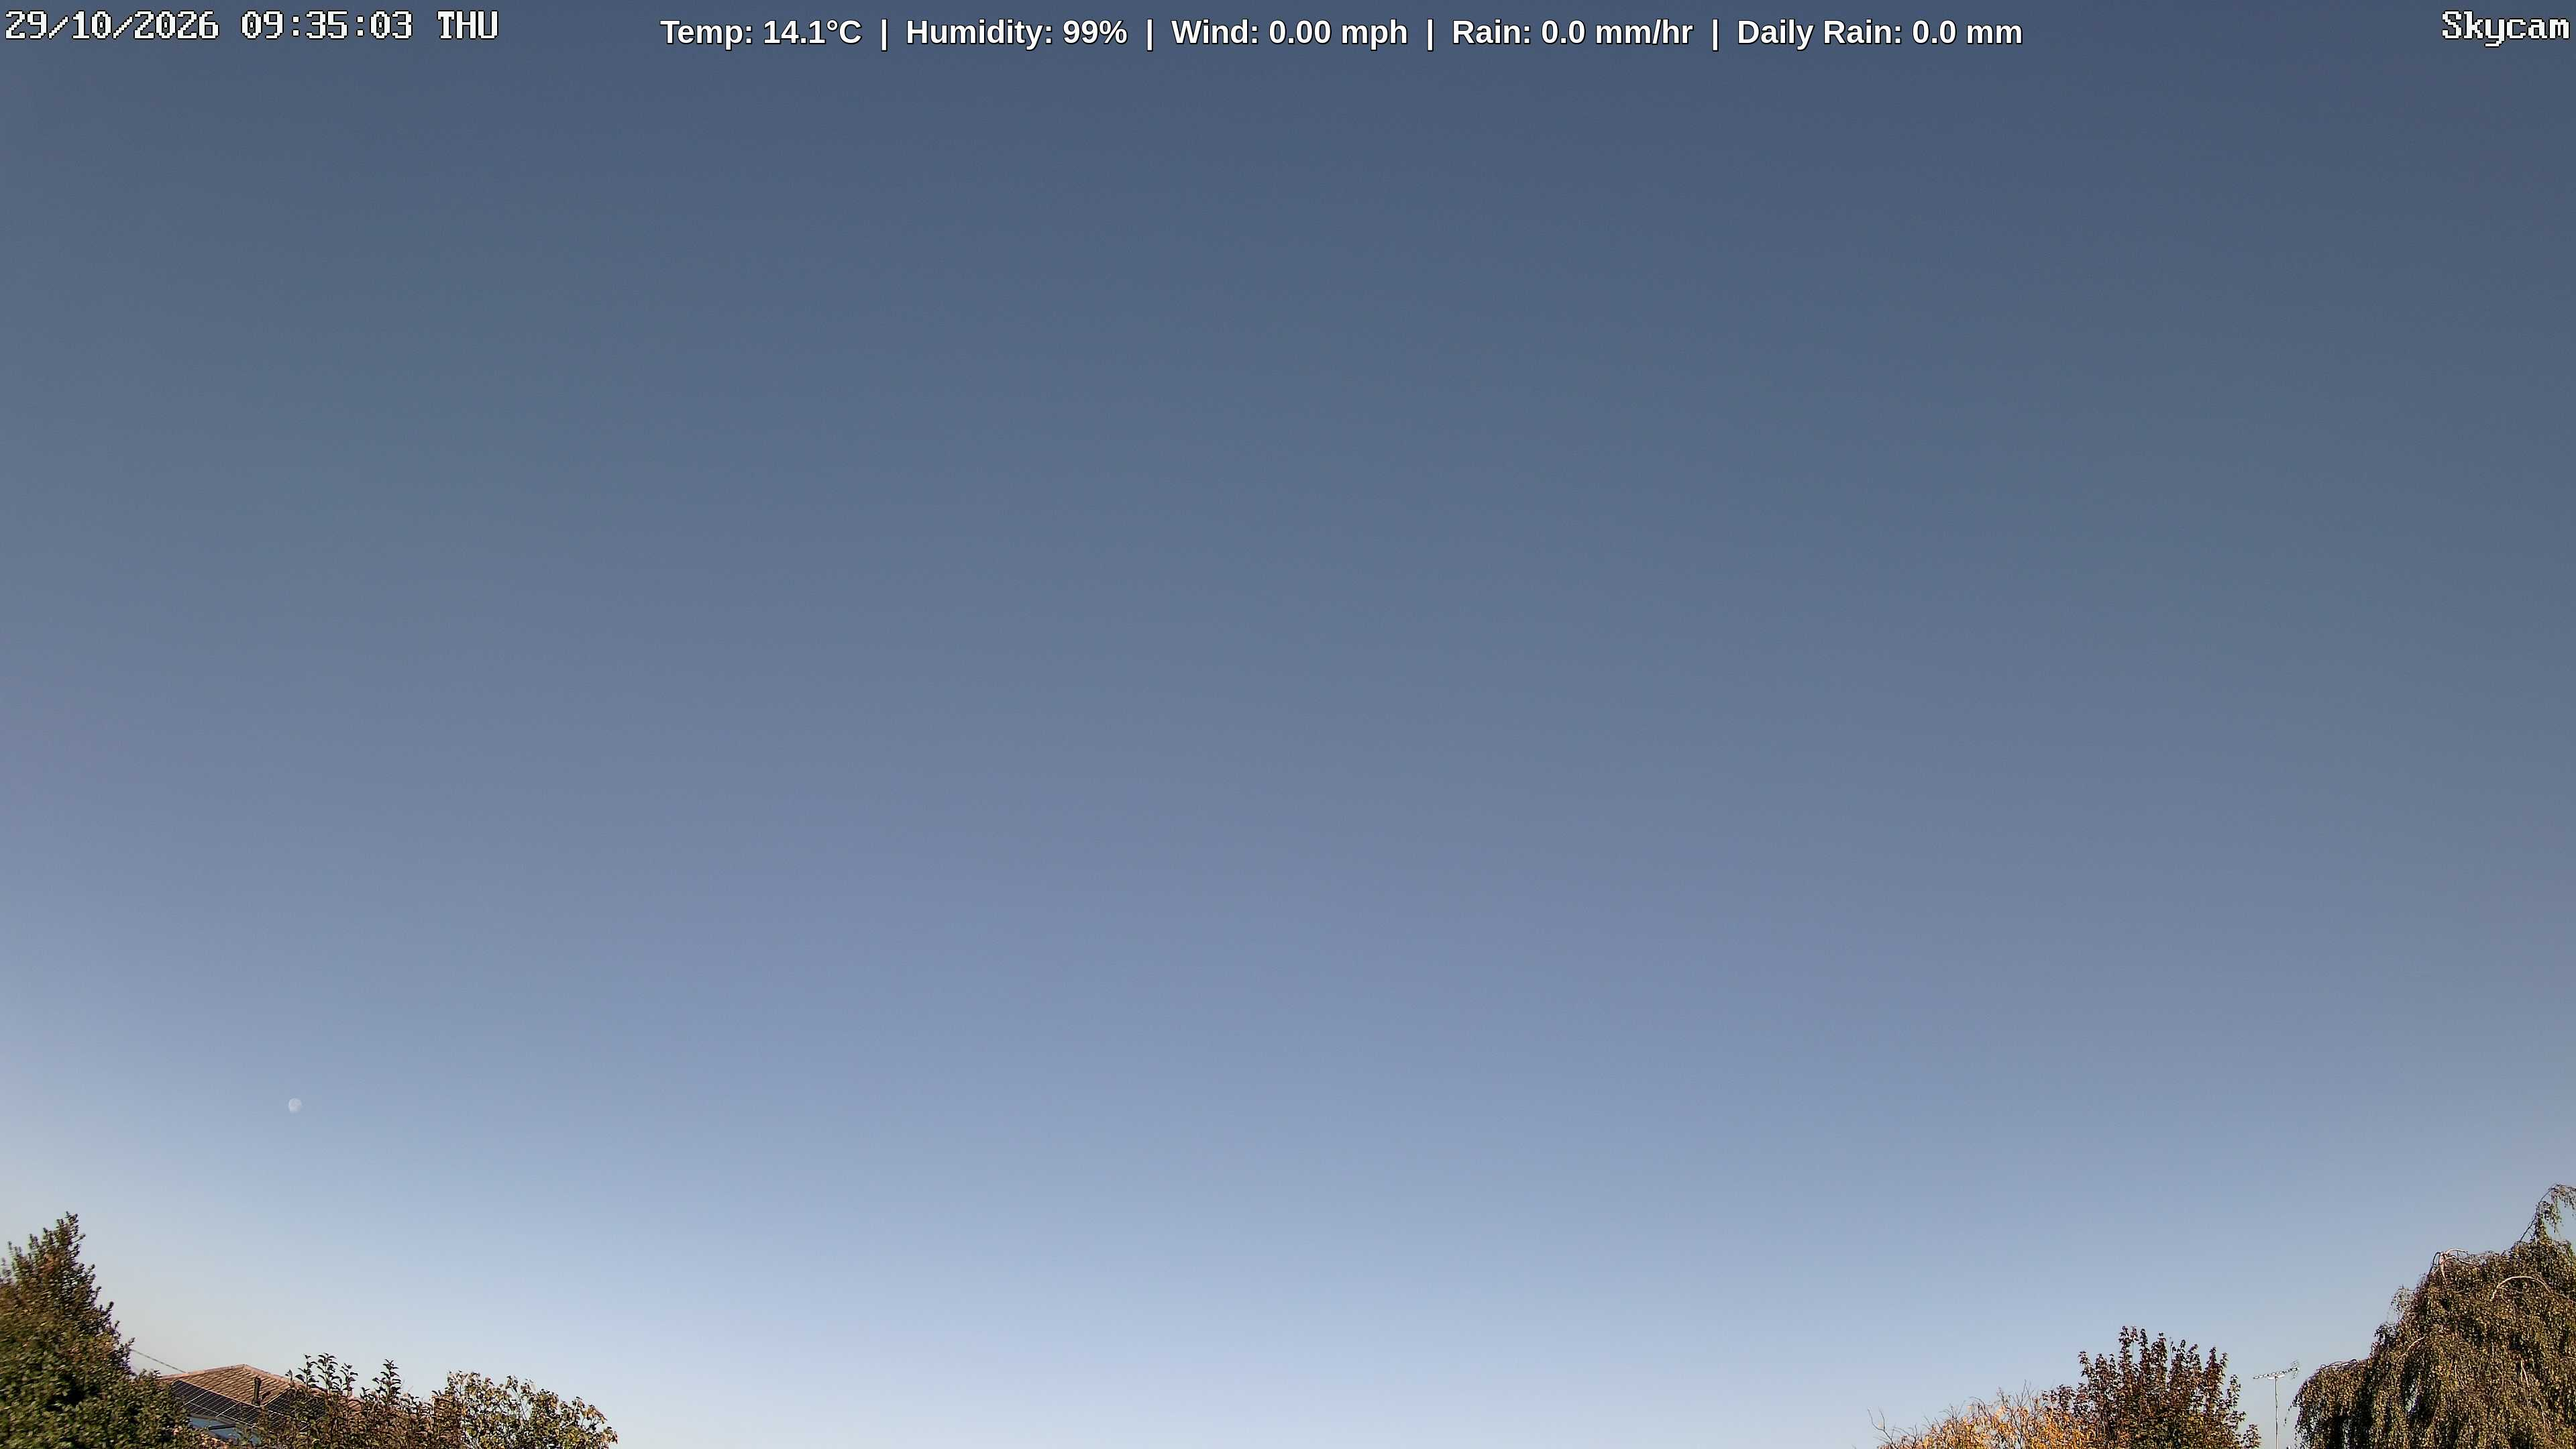
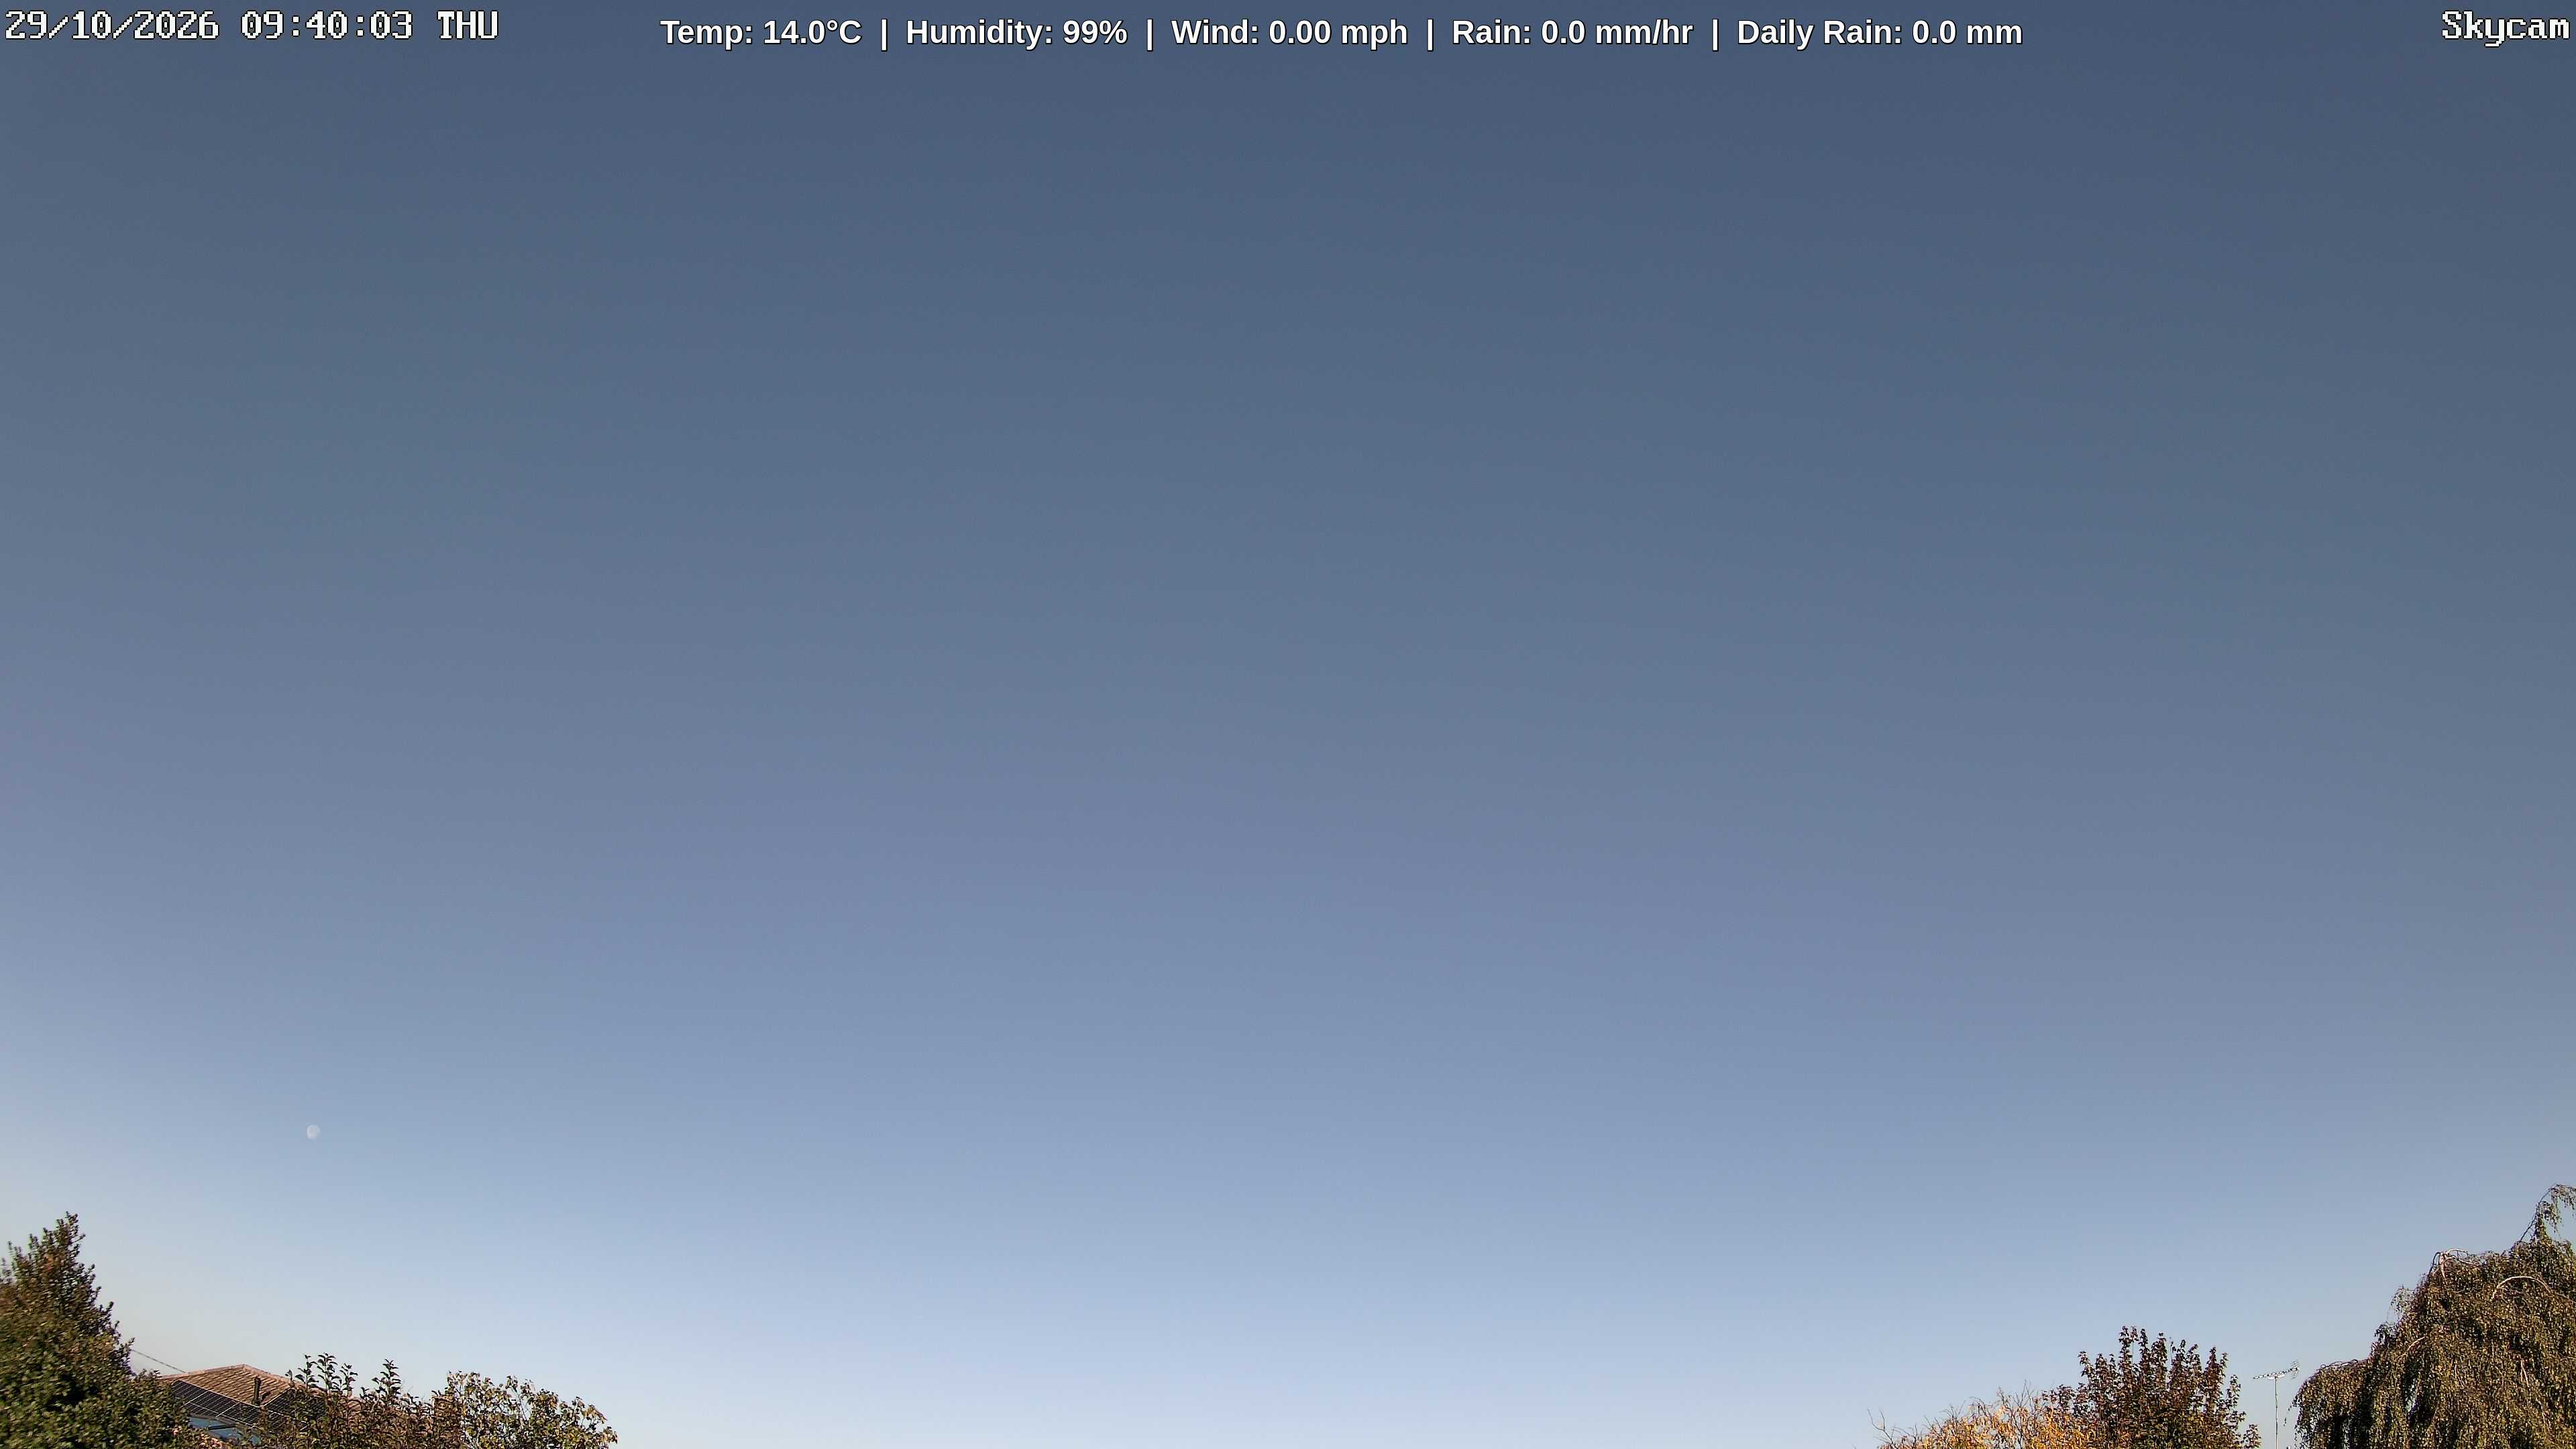
Update weather cam image with synchronized dual-layer weather metrics

Changed region(s): [[0.7188, 0.8685, 1.0, 1.0], [0.0625, 0.9306, 0.25, 1.0], [0.0938, 0.0, 0.1562, 0.031]]

diff --git a/index.html b/index.html
@@ -32,7 +32,7 @@
 </head>
 <body>
     <img id="weathercam" alt="Live Weather Snapshot">
-    <div class="banner">Temp: 14.1°C  |  Humidity: 99%  |  Wind: 0.00 mph  |  Rain: 0.0 mm/hr  |  Daily Rain: 0.0 mm</div>
+    <div class="banner">Temp: 14.0°C  |  Humidity: 99%  |  Wind: 0.00 mph  |  Rain: 0.0 mm/hr  |  Daily Rain: 0.0 mm</div>
 
     <script>
         // Shatter mobile cache engines by appending a live unique runtime timestamp 
